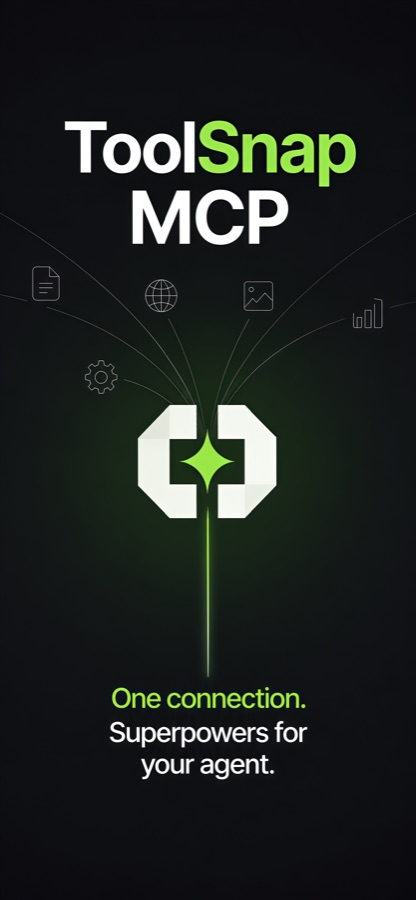
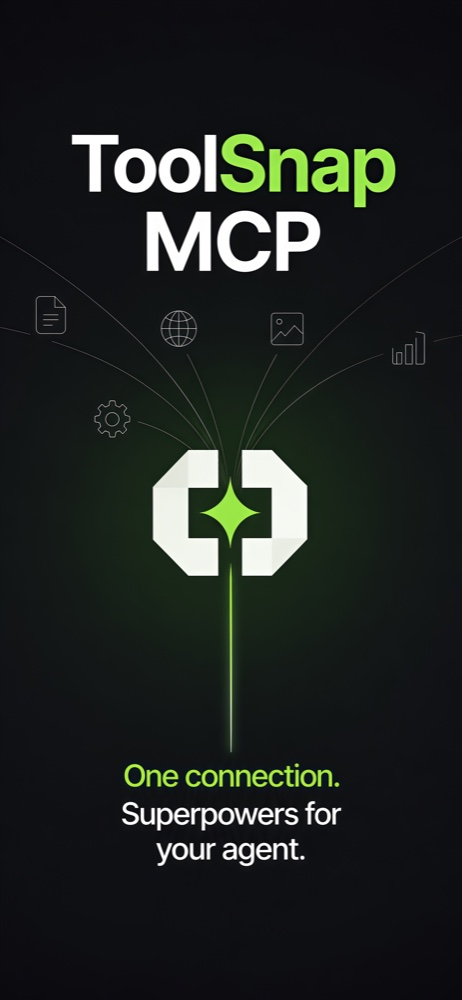
fix(hero): nitidez en pantallas retina + overlay del menú sobre la imagen en móvil
- srcset 1x/2x en ambas versiones (desktop/móvil) del hero para que no
  se vea borroso en pantallas de alta densidad — el 1x optimizado sigue
  sirviéndose en pantallas normales.
- Nombres sin '@' (Cloudflare redirige 307 los que llevan @user codificado
  en la URL); se usa el sufijo -2x en su lugar, sin redirección.
- Móvil (<720px): el header pasa a position:fixed (fuera de flujo) para
  que la imagen del hero llegue al tope real de la pantalla, con el menú
  flotando en overlay transparente encima. Compensado con padding-top en
  <main> (global) y anulado solo en el hero de la home (margin-top
  negativo) para no afectar al resto de páginas.

diff --git a/site/src/styles/global.css b/site/src/styles/global.css
@@ -52,6 +52,13 @@ body {
   text-rendering: optimizeLegibility;
 }
 
+/* Below 720px the header becomes position:fixed (see Header.astro) so a
+   full-bleed mobile hero can sit under it as an overlay. Every other page's
+   content needs this padding instead, or it renders under the header. */
+@media (max-width: 720px) {
+  main { padding-top: 68px; }
+}
+
 img, video { max-width: 100%; display: block; }
 
 a { color: inherit; text-decoration: none; }